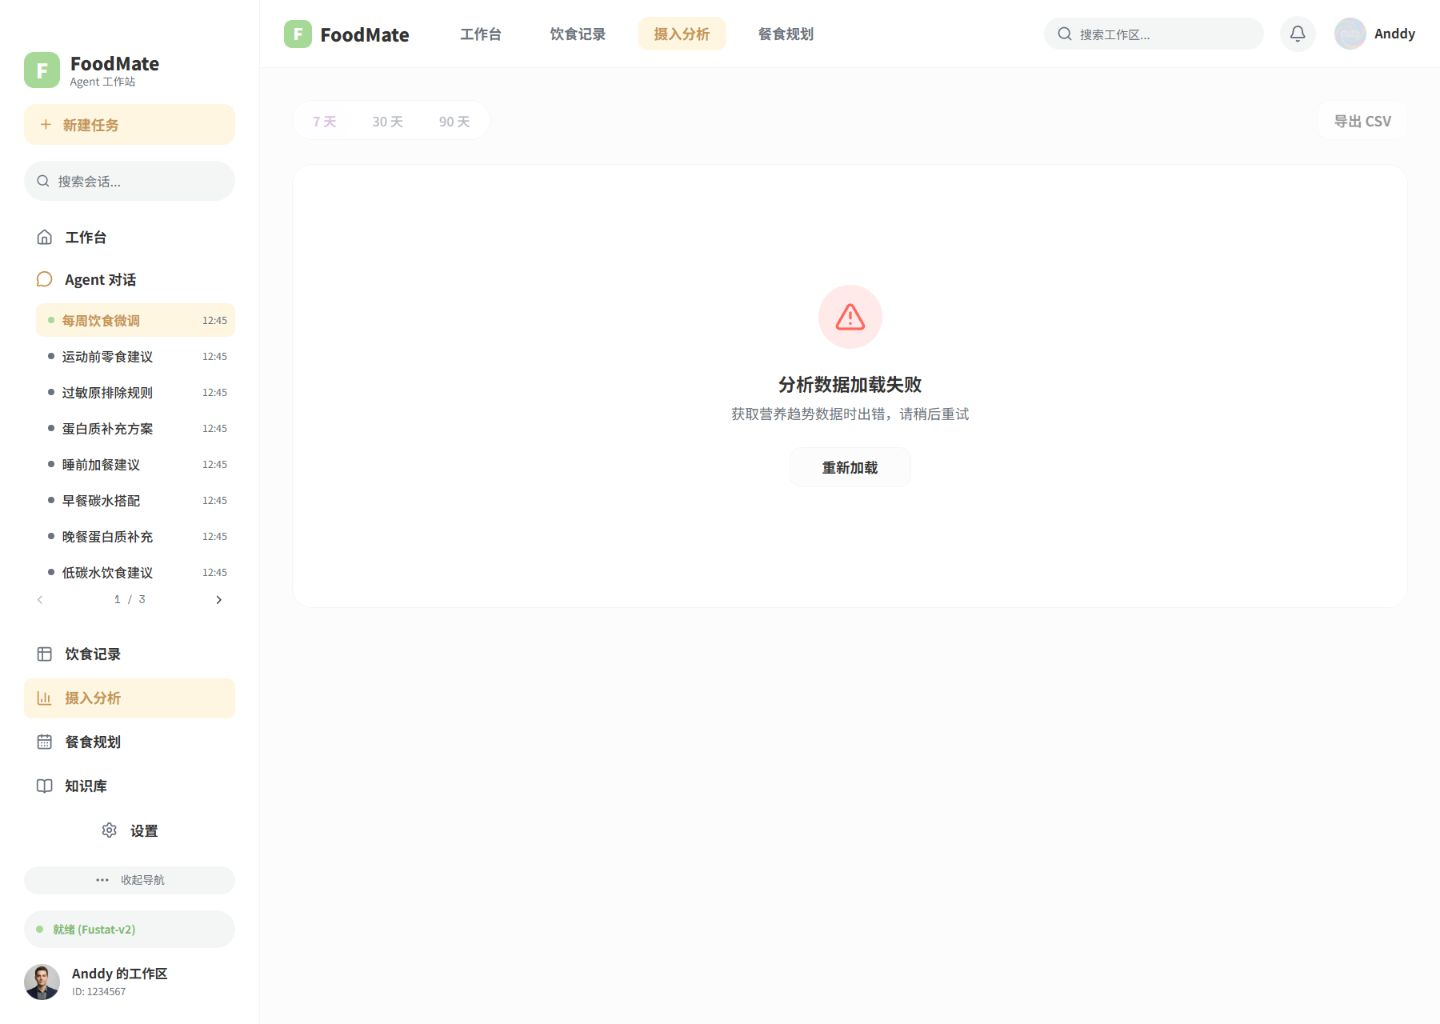
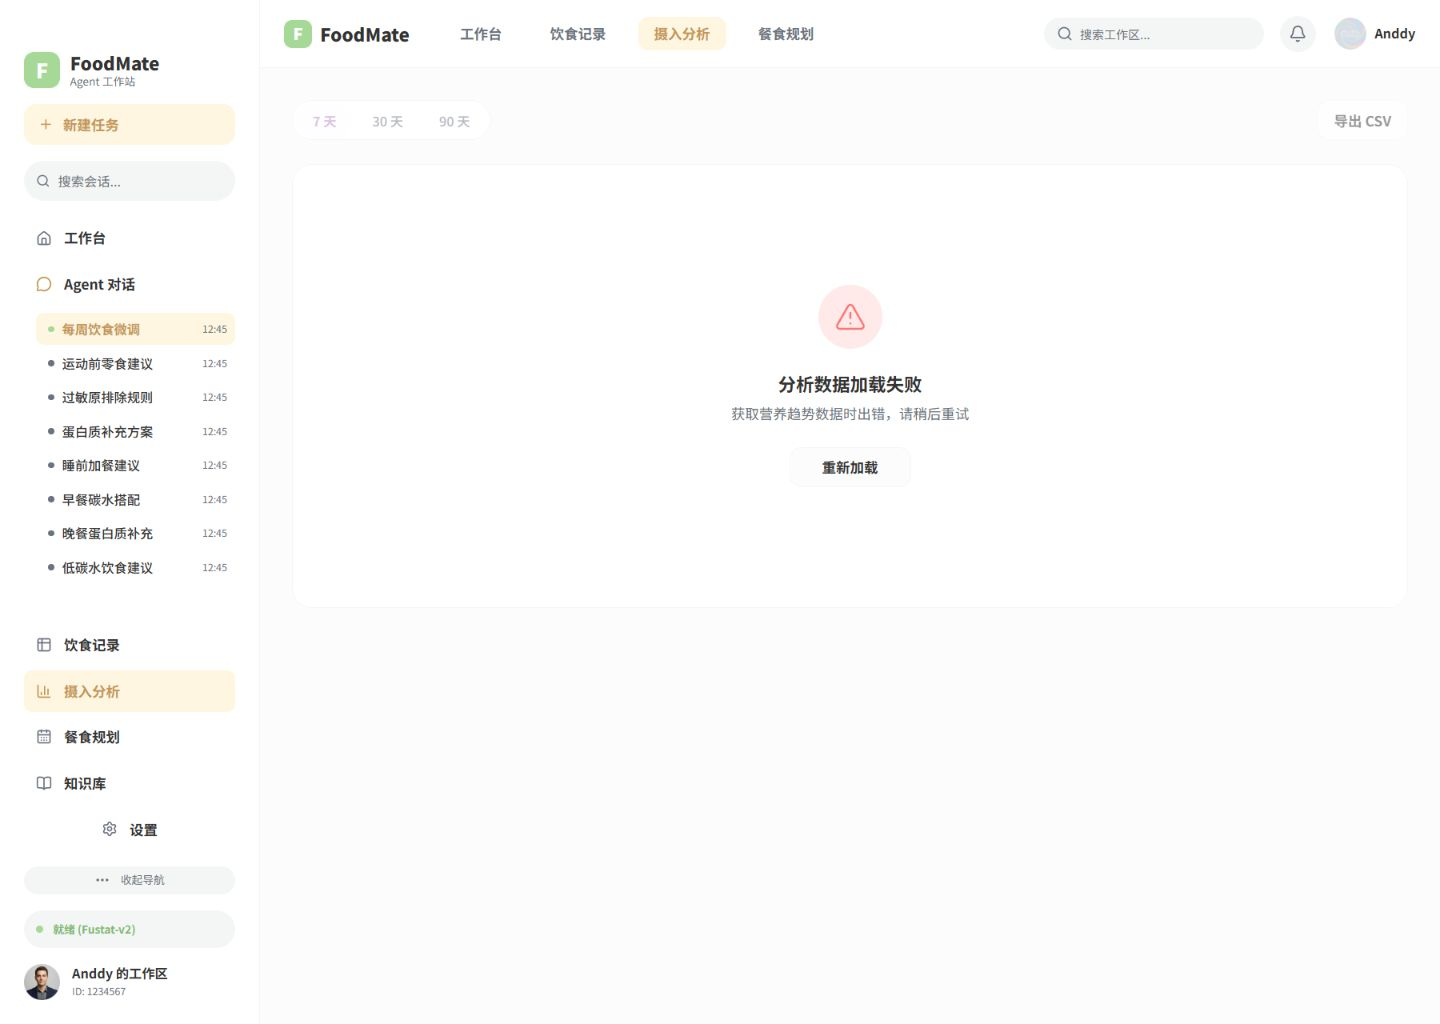
fix(分析): 对齐 Figma fixture 侧栏图标尺寸

Changed region(s): [[0.0312, 0.2188, 0.1562, 0.5625], [0.0, 0.625, 0.1562, 0.7812]]

diff --git a/foodmate-ui/src/layouts/WorkspaceLayout/WorkspaceLayout.module.css b/foodmate-ui/src/layouts/WorkspaceLayout/WorkspaceLayout.module.css
@@ -47,6 +47,13 @@
   margin-top: 4px;
 }
 
+.figmaFixture .sideLink svg,
+.figmaFixture .sideButton svg,
+.figmaFixture :global(.sidebar-session-section-title) svg {
+  width: 16px;
+  height: 16px;
+}
+
 .withRail {
   grid-template-columns: 260px minmax(0, 1fr) 320px;
 }
